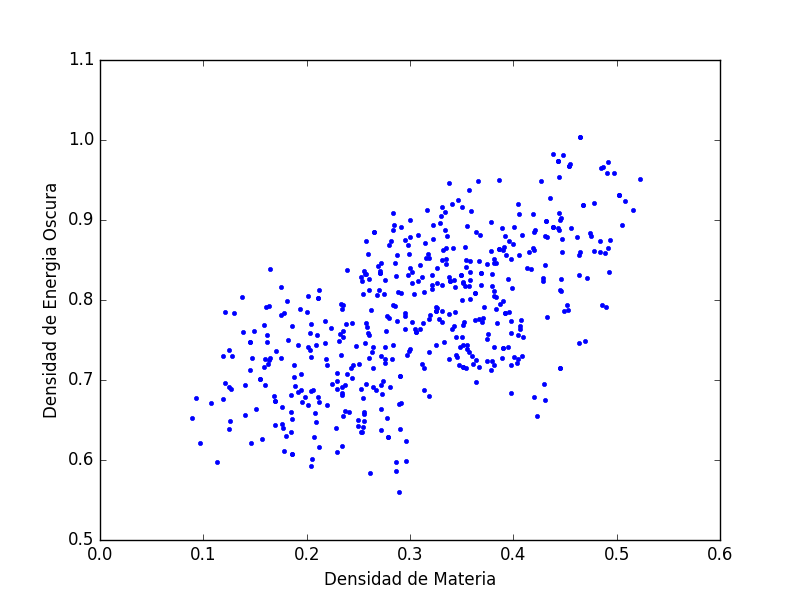
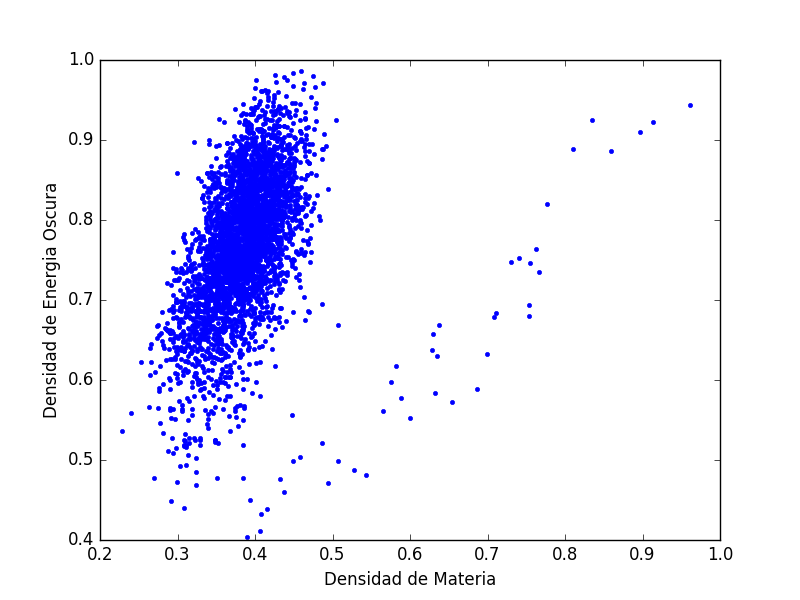
cambios positivos
se arregla el problema con la matriz de covarianza. ahora funciona
bastante mejor \o/. estan los resultados para una cadena que usa la
covarianza de una anterior

diff --git a/matrizcov.py b/matrizcov.py
@@ -136,7 +136,6 @@ def paso_metropolis(p0, pasos_aceptados, prior_params, datos, s_0, a, error=1, d
     ry = np.random.uniform(low=-1, high=1)
     xp = x0 + d * rx
     yp = y0 + d * ry
-    print [xp, yp]
     while xp < 0 or xp > 1:
         rx = np.random.uniform(low=-1, high=1)
         xp = x0 + d * rx
@@ -147,14 +146,12 @@ def paso_metropolis(p0, pasos_aceptados, prior_params, datos, s_0, a, error=1, d
     s_p = xi[0]
     if s_p > s_0:
         s = s_0 / s_p
-        print s_0 - s_p
         S = np.exp((s_0 - s_p) / 2)
         #S = np.exp(- s / 2)
         pp = prior([xp, yp], prior_params)
         p0 = prior([x0, y0], prior_params)
         L =  prior([xp, yp], prior_params) / prior([x0, y0], prior_params)
         P = S * L
-        print S, L
         R = np.random.uniform(0, 1)
         if P > R:
             p_n = [xp, yp]
@@ -178,28 +175,33 @@ def paso_metropolis(p0, pasos_aceptados, prior_params, datos, s_0, a, error=1, d
 def paso_metrop(p0, pasos_aceptados, prior_params, datos, s_0, a, error=1, d=0.1, modelo=0):
     x0, y0 = p0
     mean, std, cov = prior_params
-    r = np.random.multivariate_normal(mean, cov)
+    '''
+    cov = np.sqrt(cov)
+    det = cov[0, 0] * cov[1, 1] - cov[0, 1] ** 2
+    d = d / np.sqrt(det)
+    '''
+    R = np.random.multivariate_normal(mean, cov)
+    r = R - mean
     xp = x0 + d * r[0]
     yp = y0 + d * r[1]
-    print xp, yp
     while xp < 0 or xp > 1:
-        r = np.random.multivariate_normal(mean, cov)
+        R = np.random.multivariate_normal(mean, cov)
+        r = R - mean
         xp = x0 + d * r[0]
         yp = y0 + d * r[1]
     while yp < 0 or yp > 1:
-        r = np.random.multivariate_normal(mean, cov)
+        R = np.random.multivariate_normal(mean, cov)
+        r = R - mean
         xp = x0 + d * r[0]
         yp = y0 + d * r[1]
     xi = xi_cuadrado([xp, yp], datos, mu_th)
     s_p = xi[0]
     if s_p > s_0:
         S = np.exp((s_0 - s_p) / 2)
-        print s_0 - s_p
         pp = prior2([xp, yp], prior_params)
         p0 = prior2([x0, y0], prior_params)
         L =  pp / p0
         P = S * L
-        print S, L
         R = np.random.uniform(0, 1)
         if P > R:
             p_n = [xp, yp]
@@ -254,7 +256,7 @@ def monte_carlo(p0, prior_params, N, datos, precadena=0, error=1, d=0.1, modelo=
             print("contador: "+str(i))
     # guardar datos
     np.save('a.npy', muestra_met)
-    np.save('b', chi_cuad)
+    np.save('b.npy', chi_cuad)
     np.save('c.npy', a)
     np.save('d.npy', pasos_aceptados)
     return muestra_met, chi_cuad, a
@@ -289,11 +291,21 @@ def xi_cuadrado(p, dat, f, modelo=0):
 z, mu, mu_err = leer_archivo('SnIa_data.txt')
 datos = z, mu, mu_err
 adivinanza1 = [0.29, 0.2, 0.78, 0.3]
-N = 100
+N = 5000
 p0 = np.random.uniform(0, 1), np.random.uniform(0, 1)
 print p0
+beta = np.load('densidadesaceptadas.npy')
+a = beta[100:, 0]
+b = beta[100:, 1]
+A = np.asarray([a, b]).T
+mean = np.mean(A, axis=0)
+print mean
+std = np.std(A, axis=0)
+print std
+cov = np.sqrt(np.cov(A.T))
+print cov
 t0 = time.time()
-resultados = monte_carlo(p0, adivinanza1, N, datos, precadena=0, d=0.05)
+resultados = monte_carlo(p0, adivinanza1, N, datos, precadena=1, d=0.6)
 tf=time.time()-t0
 print("tiempo: "+str(tf))
 np.save('tiempo.npy', tf)
